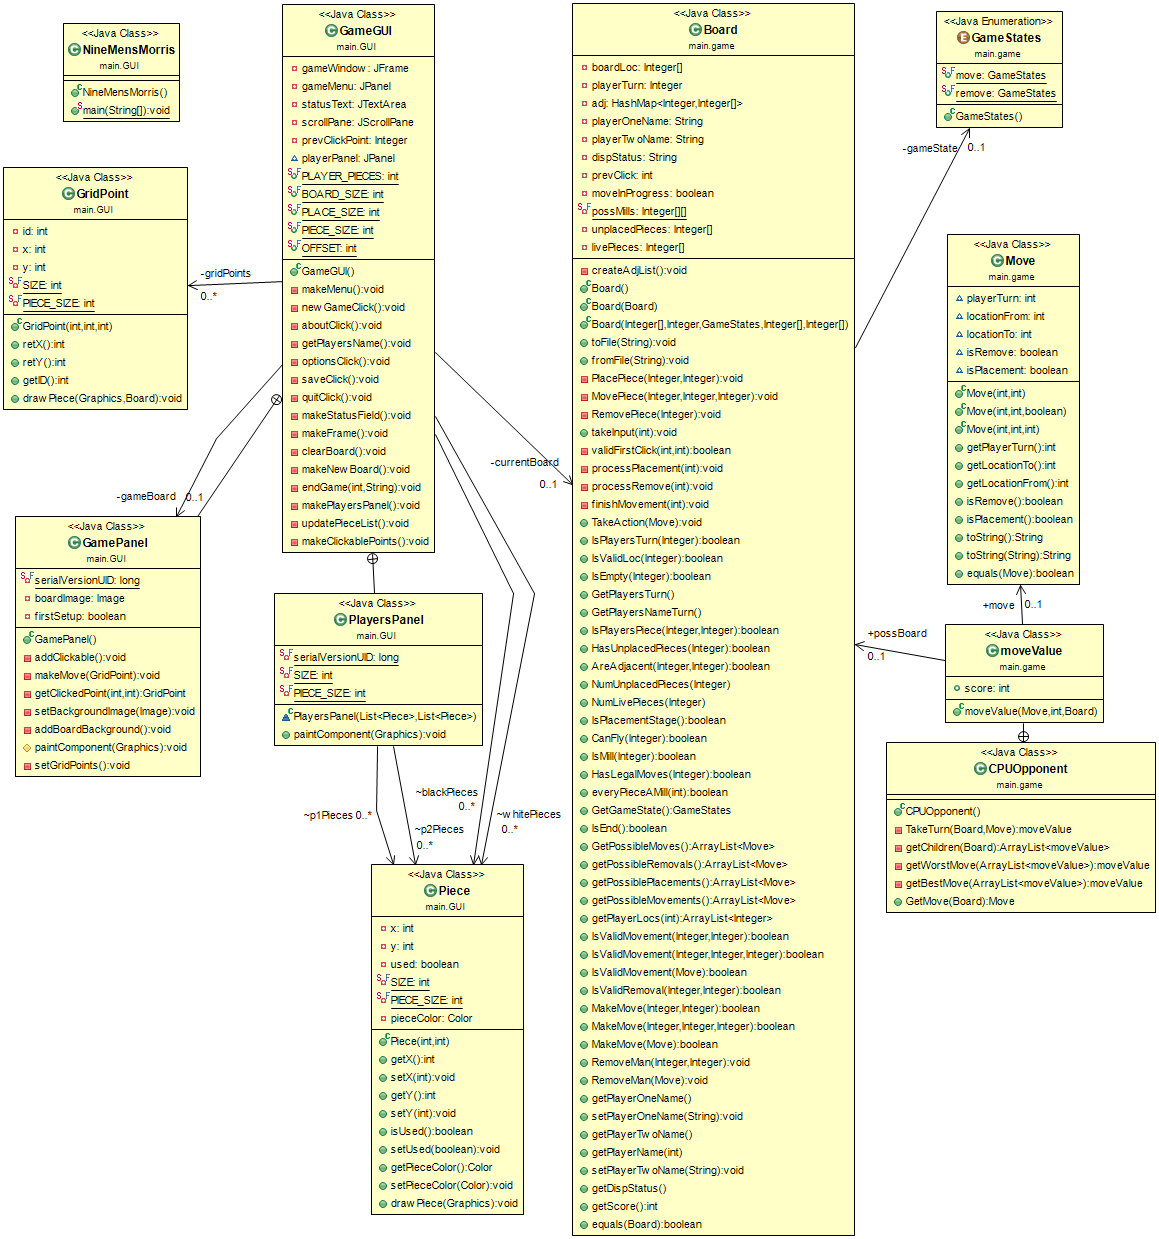
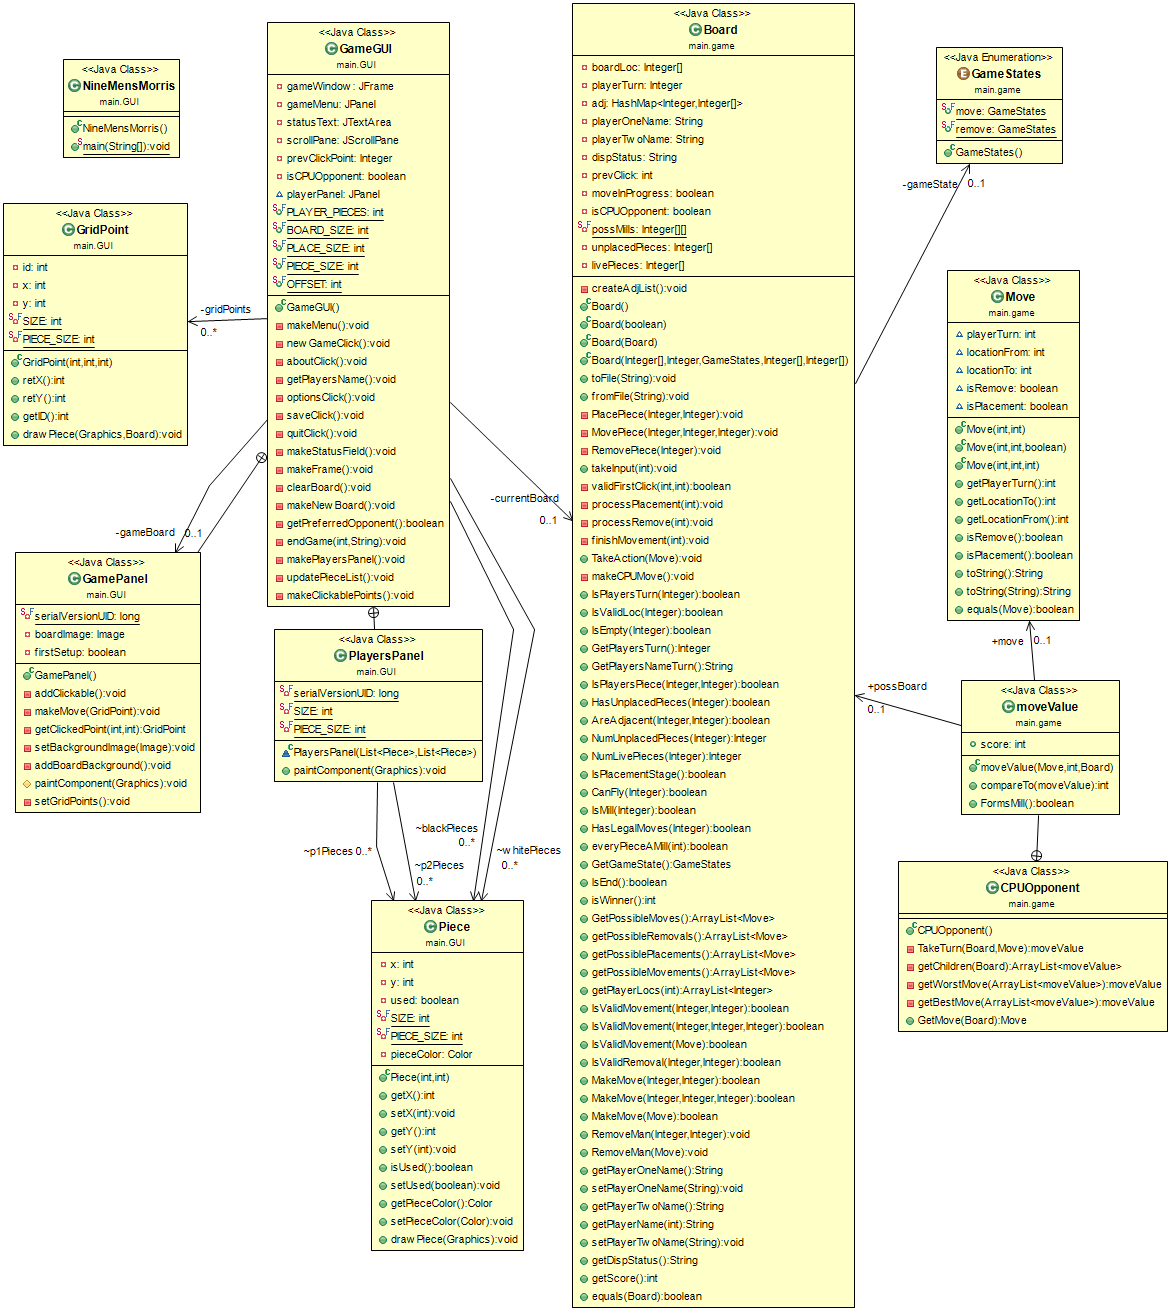
updated class diagram

diff --git a/src/main/game/CPUOpponent.java b/src/main/game/CPUOpponent.java
@@ -19,9 +19,12 @@ public class CPUOpponent {
 		@Override
 		public int compareTo(moveValue other) {
 			if (this.score > other.score) {
-				return 1;
+				return this.score - other.score;
 			}
-			return 0;
+			else if (this.score == other.score) {
+				return 0;
+			}
+			return -1;
 		}
 
 		public boolean FormsMill() {
